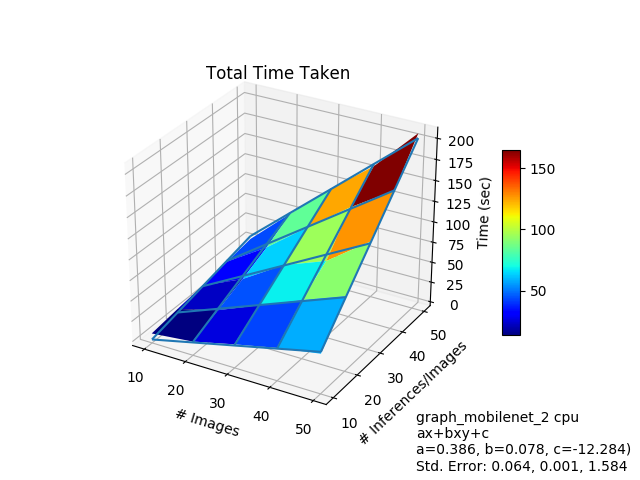
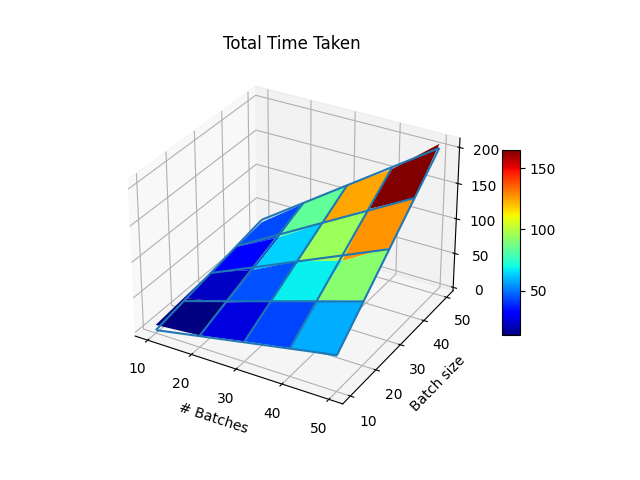
Update plots

Changed region(s): [[0.1875, 0.0625, 1.0, 1.0], [0.2812, 0.8125, 0.4375, 0.9062], [0.7188, 0.6562, 0.75, 0.6875]]

diff --git a/perf.py b/perf.py
@@ -4,7 +4,8 @@ import subprocess
 import matplotlib
 import json
 import numpy as np
-matplotlib.use('Agg')
+
+matplotlib.use("Agg")
 import matplotlib.pyplot as plt
 from time import sleep
 
@@ -19,78 +20,89 @@ graphs = [
     "graph_alexnet_2",
     "graph_mobilenet_2",
     "graph_googlenet_2",
-    "graph_squeezenet_2"
+    "graph_squeezenet_2",
 ]
 
-targets = [
-    "--cpu",
-    "--gpu",
-    "--cpu --gpu"
-]
+targets = ["--cpu", "--gpu", "--cpu --gpu"]
+
 
 def persist_to_file(file_name):
     def decorator(func):
         try:
-            cache = json.load(open(file_name, 'r'))
+            cache = json.load(open(file_name, "r"))
         except (IOError, ValueError):
             cache = {}
-        def new_func(g,t,n,i):
-            k1 = g + " " + t.replace('-', '')
+
+        def new_func(g, t, n, i):
+            k1 = g + " " + t.replace("-", "")
             k2 = str(n) + " " + str(i)
             if k1 not in cache:
                 cache[k1] = {}
             if k2 not in cache[k1]:
-                cache[k1][k2] = func(g,t,n,i)
-                json.dump(cache, open(file_name, 'w'))
+                cache[k1][k2] = func(g, t, n, i)
+                json.dump(cache, open(file_name, "w"))
             return cache[k1][k2]
+
         return new_func
+
     return decorator
 
-@persist_to_file('perf_cache.dat')
+
+@persist_to_file("perf_cache.dat")
 def run(graph, target, n, i):
     global env
     cmd = pp + graph + " " + target + " --n=" + str(n) + " --i=" + str(i)
     sleep(5)
-    out = subprocess.check_output(cmd.split(), env=env).decode('utf-8') 
+    out = subprocess.check_output(cmd.split(), env=env).decode("utf-8")
     cpu_images = 0
     gpu_images = 0
     if "cpu" in target:
-        cpu_images = int(re.findall('Completed CPU: (\d+)', out)[0])
+        cpu_images = int(re.findall("Completed CPU: (\d+)", out)[0])
     if "gpu" in target:
-        gpu_images = int(re.findall('Completed GPU: (\d+)', out)[0])
-    t_image = float(re.findall('(\d+.\d+) per image', out)[0])
+        gpu_images = int(re.findall("Completed GPU: (\d+)", out)[0])
+    t_image = float(re.findall("(\d+.\d+) per image", out)[0])
     return cpu_images, gpu_images, t_image
+
 
 def plot_fig(k, x, y, z, zp, popt, se):
     graph, target = k
     fig = plt.figure()
-    ax = fig.gca(projection='3d')
+    ax = fig.gca(projection="3d")
     x1 = np.linspace(min(x), max(x), len(set(x)))
     y1 = np.linspace(min(y), max(y), len(set(y)))
     x1, y1 = np.meshgrid(x1, y1)
-    z1 = griddata((x, y), z, (x1, y1), method='cubic')
-    z1p = griddata((x, y), zp, (x1, y1), method='cubic')
-    surf = ax.plot_surface(x1, y1, z1, cmap='jet')
-    surf2 = ax.plot_wireframe(x1, y1, z1p, cmap='flag')
+    z1 = griddata((x, y), z, (x1, y1), method="cubic")
+    z1p = griddata((x, y), zp, (x1, y1), method="cubic")
+    surf = ax.plot_surface(x1, y1, z1, cmap="jet")
+    surf2 = ax.plot_wireframe(x1, y1, z1p, cmap="flag")
     ax.xaxis.set_major_locator(MultipleLocator(10.0))
     ax.yaxis.set_major_locator(MultipleLocator(10.0))
     fig.colorbar(surf, shrink=0.5, aspect=10)
-    ax.set_xlabel('# Images')
-    ax.set_ylabel('# Inferences/Images')
-    ax.set_zlabel('Time (sec)')
-    ax.set_title('Total Time Taken')
-    plt.figtext(0.65, 0.02, graph + ' ' + target + '\nax+bxy+c\na=%5.3f, b=%5.3f, c=%5.3f)\nStd. Error: %5.3f, %5.3f, %5.3f' % tuple(np.concatenate((popt,se))))
-    #plt.show()
-    plt.savefig('perf_plots/'+graph+"_"+target.replace(" ", "_")+".png")
+    ax.set_xlabel("# Batches")
+    ax.set_ylabel("Batch size")
+    ax.set_zlabel("Time (sec)")
+    ax.set_title("Total Time Taken")
+    # plt.figtext(
+    #     0.65,
+    #     0.02,
+    #     graph
+    #     + " "
+    #     + target
+    #     + "\nax+bxy+c\na=%5.3f, b=%5.3f, c=%5.3f)\nStd. Error: %5.3f, %5.3f, %5.3f"
+    #     % tuple(np.concatenate((popt, se))),
+    # )
+    # plt.show()
+    plt.savefig("perf_plots/" + graph + "_" + target.replace(" ", "_") + ".png")
+
 
 if __name__ == "__main__":
     global env
     env = dict(os.environ)
-    env['LD_LIBRARY_PATH'] = './build/release'
+    env["LD_LIBRARY_PATH"] = "./build/release"
     time = {}
     for graph in graphs:
         for target in targets:
-            _target = target.replace('-', '')
+            _target = target.replace("-", "")
             print(graph, _target)
             time[(graph, _target)] = []
             for n in range(10, 51, 10):
@@ -102,11 +114,12 @@ if __name__ == "__main__":
     for k in time:
         xyz = list(zip(*time[k]))[:3]
         x, y, z = np.array(xyz[0]), np.array(xyz[1]), np.array(xyz[2])
+
         def func(xy, a, b, c):
             [x, y] = xy.T
-            return a*x + b*x*y + c
+            return a * x + b * x * y + c
+
         popt, pcov = curve_fit(func, np.array(list(zip(x, y))), z)
         se = np.sqrt(np.diag(pcov))
-        z1 = func(np.array(list(zip(x, y))), *popt) 
+        z1 = func(np.array(list(zip(x, y))), *popt)
         plot_fig(k, x, y, z, z1, popt, se)
-

diff --git a/motivation.py b/motivation.py
@@ -91,11 +91,7 @@ for graph, val in data.items():
     print(graph)
     for (target, config), (idx, line) in zip(
         rowvs,
-        [
-            (a, b)
-            for a, b in enumerate([x for x in val.split("\n") if x])
-            if a in rows
-        ],
+        [(a, b) for a, b in enumerate([x for x in val.split("\n") if x]) if a in rows],
     ):
         data3[config].append([graph, target, line.split(",")[1]])
 
@@ -114,6 +110,5 @@ for config in data3:
         kind="bar",
         legend_out=False,
     )
-    plt.title(f"{config[0]} Batches, {config[1]} Batch Size")
     print(f"Generated fig {config}")
     plt.savefig(f"motivation_{config[0]}_{config[1]}.png")

diff --git a/stats.py b/stats.py
@@ -49,7 +49,7 @@ for temp_csv in temp_csvs:
         continue
     df = pd.read_csv(temp_csv)
     average_temp = df["temp"].mean()
-    crosses_threshold = len(df[df["temp"] > int(TL)]) / len(df["temp"]) * 100
+    crosses_threshold = len(df[df["temp"] > 80000]) / len(df["temp"]) * 100
     stats[graph][version][TL]["crosses_threshold"] = crosses_threshold
     df["temp"] /= 1000
     stats[graph][version][TL]["temps"] = df
@@ -98,7 +98,7 @@ ax = sns.boxplot(
     data=temp_df,
     dodge=True,
     palette=sns.color_palette("tab20", n_colors=6),
-    showfliers=False,
+    whis=(0, 100),
     linewidth=1,
 )
 ax.set_xlabel("Graph")
